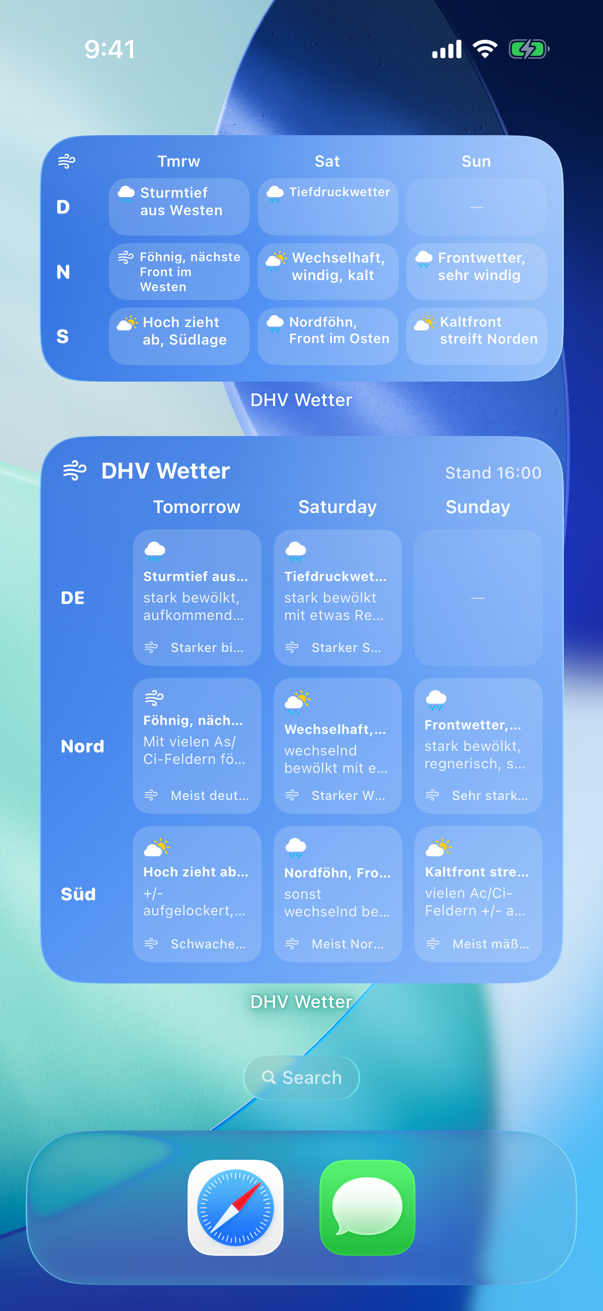
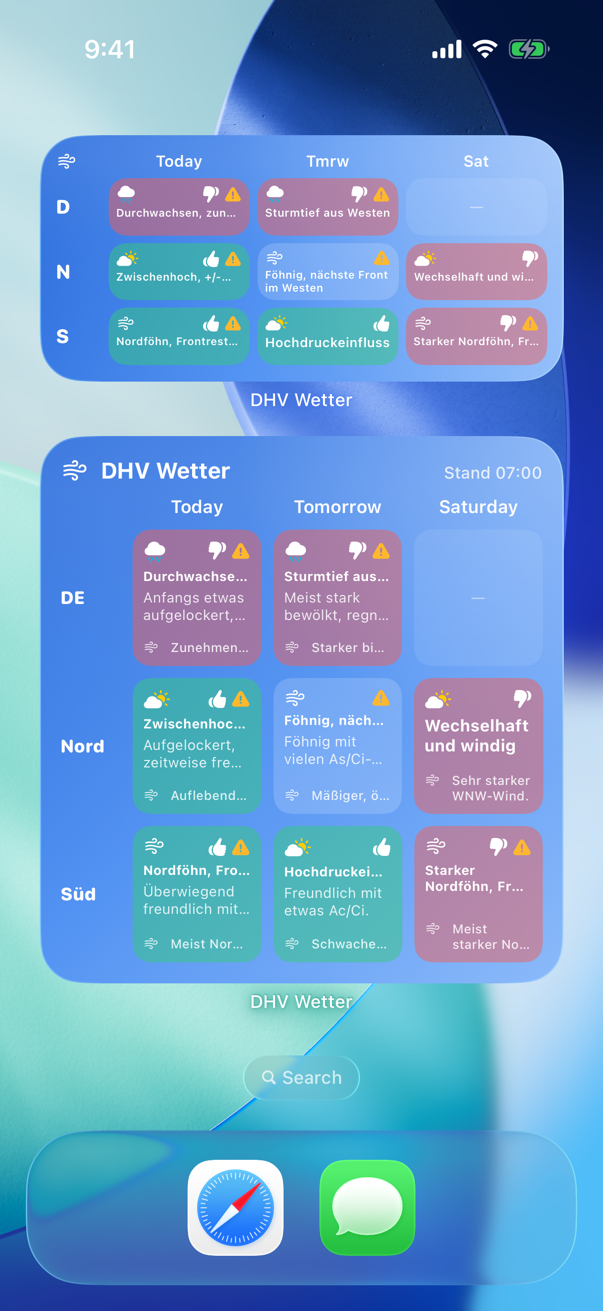
iOS: keep DHV rating colours on Clear and Tinted Home Screens
Draw each day tile's rating colour as an image marked
widgetAccentedRenderingMode(.fullColor), so green, yellow and red survive
when iOS renders the widget as glass or tint. Tested on the simulator's real
Home Screen: plain fills turn white and a tinted glassEffect doesn't render
in widgets. Each rated day also carries its symbol, and the medium widget's
badges get their own row. README shots now use the sample forecast.

diff --git a/ios/Shared/WidgetViews.swift b/ios/Shared/WidgetViews.swift
@@ -1,5 +1,6 @@
 import DHVKit
 import SwiftUI
+import UIKit
 import WidgetKit
 
 // MARK: - Building blocks
@@ -7,15 +8,19 @@ import WidgetKit
 /// A day tile: a plain grouping shape whose corners follow the widget's own
 /// (about 26 pt on iPhone) minus the content margin.
 ///
-/// Apple's widget guidance leaves the glass to the system: on a Clear Home
-/// Screen iOS renders the widget in accented mode, removes the container
-/// background and draws real Liquid Glass behind the content. A custom glass
-/// effect doesn't render inside a widget, so tiles stay flat fills: tinted by
-/// DHV's marker in full colour, a faint neutral fill in accented mode (which
-/// iOS tints white and lays over its glass).
+/// Apple's widget guidance leaves the glass to the system: on a Clear or
+/// Tinted Home Screen iOS renders the widget in accented mode, removes the
+/// container background, draws Liquid Glass or the tint behind the content
+/// and turns every colour white. To keep DHV's rating readable there:
+/// - the rating colour is drawn as an image marked
+///   `widgetAccentedRenderingMode(.fullColor)`, the documented way to keep an
+///   image's colour in accented mode (checked on the simulator's Home Screen:
+///   green, yellow and red survive in Clear and Tinted, a plain fill doesn't);
+/// - good days are drawn a little stronger and each rated day carries its
+///   symbol, so the rating still reads if a future iOS whitens images too.
 struct DayTile: ViewModifier {
-    /// DHV's marker colour, or nil for an untinted (neutral or empty) tile.
-    var tint: Color?
+    /// DHV's rating, or nil for an empty slot.
+    var rating: Rating?
     var emphasis: Double = 1
     @Environment(\.widgetRenderingMode) private var mode
     @Environment(\.colorScheme) private var scheme
@@ -24,21 +29,51 @@ struct DayTile: ViewModifier {
         content.background {
             // Same radius for every tile: a concentric shape would square off
             // the inner tiles of the grid.
-            RoundedRectangle(cornerRadius: 12, style: .continuous)
-                .fill(fill.opacity(emphasis))
+            let shape = RoundedRectangle(cornerRadius: 12, style: .continuous)
+            if mode != .fullColor, let rating, rating != .neutral {
+                Swatch.image(rating.tint)
+                    .resizable()
+                    .widgetAccentedRenderingMode(.fullColor)
+                    .opacity(accentedStrength(rating) * emphasis)
+                    .clipShape(shape)
+            } else {
+                shape.fill(fill.opacity(emphasis))
+            }
         }
     }
 
     private var fill: Color {
-        guard mode == .fullColor else { return .white.opacity(0.12) }
-        if let tint { return tint.opacity(scheme == .dark ? 0.34 : 0.40) }
+        guard mode == .fullColor else { return .white.opacity(0.10) }
+        if let rating, rating != .neutral { return rating.tint.opacity(scheme == .dark ? 0.42 : 0.48) }
         return .white.opacity(scheme == .dark ? 0.10 : 0.17)
+    }
+
+    private func accentedStrength(_ rating: Rating) -> Double {
+        switch rating {
+        case .good: 0.62
+        case .mixed: 0.58
+        case .poor: 0.55
+        case .neutral: 0.10
+        }
+    }
+}
+
+/// A solid colour as a bitmap. Unlike a fill, an image can opt out of the
+/// accented whitening with `widgetAccentedRenderingMode(.fullColor)`.
+enum Swatch {
+    static func image(_ color: Color) -> Image {
+        let size = CGSize(width: 4, height: 4)
+        let bitmap = UIGraphicsImageRenderer(size: size).image { context in
+            UIColor(color).setFill()
+            context.fill(CGRect(origin: .zero, size: size))
+        }
+        return Image(uiImage: bitmap)
     }
 }
 
 extension View {
     func dayTile(_ day: DayForecast?, emphasis: Double = 1) -> some View {
-        modifier(DayTile(tint: day.flatMap { $0.rating == .neutral ? nil : $0.tint }, emphasis: emphasis))
+        modifier(DayTile(rating: day?.rating, emphasis: emphasis))
     }
 }
 
@@ -136,6 +171,13 @@ struct OverviewView: View {
     private var family: WidgetFamily { familyOverride ?? environmentFamily }
 
     var body: some View {
+        content
+        .containerBackground(for: .widget) { SkyBackground() }
+        .widgetURL(URL(string: "dhvweather://"))
+    }
+
+    @ViewBuilder
+    private var content: some View {
         Group {
             if let forecast = entry.forecast, !forecast.upcomingDates(from: entry.date).isEmpty {
                 grid(forecast)
@@ -143,8 +185,6 @@ struct OverviewView: View {
                 EmptyState(entry: entry)
             }
         }
-        .containerBackground(for: .widget) { SkyBackground() }
-        .widgetURL(URL(string: "dhvweather://"))
     }
 
     private var isLarge: Bool { family == .systemLarge }
@@ -225,20 +265,22 @@ struct MediumCell: View {
     var day: DayForecast
 
     var body: some View {
-        HStack(alignment: .top, spacing: 3) {
-            SkyIcon(day: day, size: 10)
+        // Icons on their own row, so the badges never sit on the text.
+        VStack(alignment: .leading, spacing: 1) {
+            HStack(spacing: 3) {
+                SkyIcon(day: day, size: 10)
+                Spacer(minLength: 0)
+                DayBadges(day: day, size: 10)
+            }
             Text(day.headline)
                 .font(.system(size: 9.5, weight: .semibold))
-                .lineLimit(3)
+                .lineLimit(2)
                 .minimumScaleFactor(0.75)
                 .frame(maxWidth: .infinity, alignment: .leading)
         }
         .padding(.horizontal, 5)
         .padding(.vertical, 4)
         .frame(maxWidth: .infinity, maxHeight: .infinity, alignment: .topLeading)
-        .overlay(alignment: .bottomTrailing) {
-            DayBadges(day: day, size: 7).padding(3)
-        }
         .dayTile(day)
     }
 }
@@ -251,7 +293,7 @@ struct LargeCell: View {
             HStack(alignment: .top, spacing: 4) {
                 SkyIcon(day: day, size: 12)
                 Spacer(minLength: 0)
-                DayBadges(day: day, size: 9)
+                DayBadges(day: day, size: 11)
             }
             Text(day.headline)
                 .font(.system(size: 11, weight: .bold))
@@ -373,7 +415,7 @@ struct RegionView: View {
                             .font(.system(size: 10, weight: .semibold))
                             .opacity(0.85)
                         Spacer(minLength: 0)
-                        DayBadges(day: today, size: 9)
+                        DayBadges(day: today, size: 11)
                     }
                     Text(today.headline)
                         .font(.system(size: 12.5, weight: .bold))
@@ -404,3 +446,4 @@ struct RegionView: View {
         }
     }
 }
+

diff --git a/ios/Widget/Provider.swift b/ios/Widget/Provider.swift
@@ -6,6 +6,10 @@ enum Timelines {
     /// One entry now, plus one just after each of the next two midnights so
     /// "Today" / "Tomorrow" roll over even if no refresh happens overnight.
     static func make(region: RegionID) async -> Timeline<ForecastEntry> {
+        #if SAMPLE_FORECAST
+        // CI screenshot builds: the built-in sample, which has every DHV marker.
+        return Timeline(entries: [ForecastEntry.sample(region: region)], policy: .never)
+        #else
         let now = Date.now
         // Several widgets reload together; reuse a copy fetched in the last 10 minutes.
         let result = await ForecastLoader.load(maxAge: 10 * 60, now: now)
@@ -24,6 +28,7 @@ enum Timelines {
         }
         let refresh = ForecastLoader.nextRefresh(after: result.forecast, now: now, failed: result.error != nil)
         return Timeline(entries: entries, policy: .after(refresh))
+        #endif
     }
 }
 

diff --git a/ios/README.md b/ios/README.md
@@ -12,7 +12,7 @@ A native iOS 26 app and WidgetKit widgets for the [DHV-Wetter](https://www.dhv.d
 - Each day is a tile. The icon shows the sky as DHV describes it (sun, cloud, showers, rain, snow, Föhn), read from DHV's bold key phrase.
 - When DHV marks a day as Thermikwetter (👍), Störungswetter (👎) or with a Warnhinweis (⚠), the tile is tinted green, red or yellow and shows the badge. DHV mostly sets these markers in thermal season; outside it the tiles stay blue-grey.
 - Columns are matched by date and labelled from the real date (Today / Tomorrow / weekday), so they roll over at midnight and never show yesterday as "Today".
-- The Liquid Glass comes from iOS, as Apple's widget guidance intends: with a **Clear** or **Tinted** Home Screen (long-press the Home Screen → Edit → Customize) iOS renders the widget in accented mode, removes its sky background and draws real glass or your tint behind the content. The widget doesn't fake glass itself (a custom glass effect doesn't render inside widgets). Everything stays readable there because the sky and DHV's markers are symbols, not only colours.
+- The Liquid Glass comes from iOS, as Apple's widget guidance intends: with a **Clear** or **Tinted** Home Screen (long-press the Home Screen → Edit → Customize) iOS renders the widget in accented mode, removes its sky background and draws real glass or your tint behind the content. The widget doesn't fake glass itself (a custom glass effect doesn't render inside widgets). iOS turns everything else white there, but the rating colour is drawn as an image marked `widgetAccentedRenderingMode(.fullColor)`, so the green, yellow and red tiles keep their colour on the glass. The sky and DHV's markers are symbols too, so nothing relies on colour alone.
 - The widget refreshes shortly after DHV's announced next update (morning ~7–8 h, evening ~18–19 h) and at least every 3 hours, as far as iOS's widget budget allows. Opening the app refreshes everything immediately.
 - Tapping a widget opens the app on that region.
 

diff --git a/README.md b/README.md
@@ -28,10 +28,10 @@ Install:
 
 <img src="assets/ios/hs-default.png" height="400" alt="iOS Home Screen, Default"> <img src="assets/ios/hs-dark.png" height="400" alt="iOS Home Screen, Dark"> <img src="assets/ios/hs-clear.png" height="400" alt="iOS Home Screen, Clear (Liquid Glass)"> <img src="assets/ios/hs-tinted.png" height="400" alt="iOS Home Screen, Tinted"> <img src="assets/ios/lock-dark.png" height="400" alt="iOS Lock Screen and small widgets">
 
-Real iOS 26 Home Screen in the simulator: Default, Dark, Clear and Tinted. The glass is drawn by iOS itself.
+Real iOS 26 Home Screen in the simulator: Default, Dark, Clear and Tinted, with the built-in sample forecast so DHV's markers show. The glass is drawn by iOS itself.
 
 - Built to Apple's widget guidance for Liquid Glass: the background lives in `containerBackground`, so with a **Clear** or **Tinted** Home Screen (long-press → Edit → Customize) iOS swaps it for real Liquid Glass or your tint. In Default and Dark the widget is full colour.
-- Day tiles are tinted by DHV's own markers (Thermikwetter, Störungswetter, Warnhinweis), with weather icons read from DHV's bold key phrases. In Clear and Tinted the markers stay readable as symbols.
+- Day tiles are tinted by DHV's own markers (Thermikwetter, Störungswetter, Warnhinweis), with weather icons read from DHV's bold key phrases. The green, yellow and red stay in colour on a Clear or Tinted Home Screen too, and each marked day also shows its symbol.
 - Days are matched and labelled by date, so the columns stay right after DHV's evening update and at midnight.
 - Refreshes shortly after DHV's announced next update, at least every 3 hours, and whenever you open the app.
 
